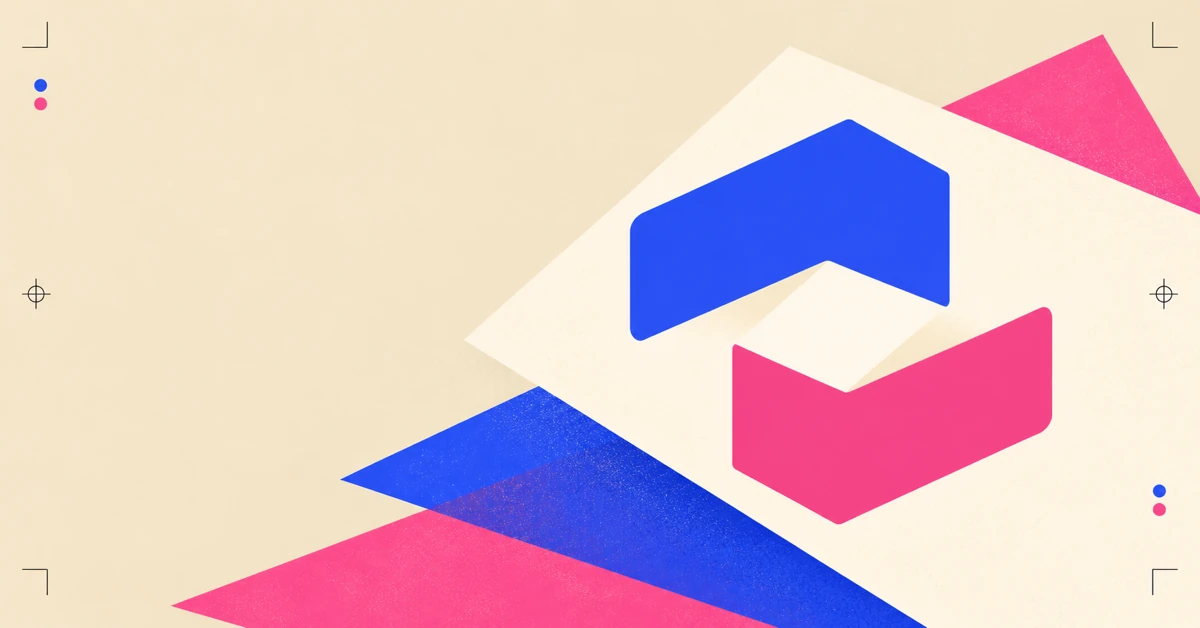
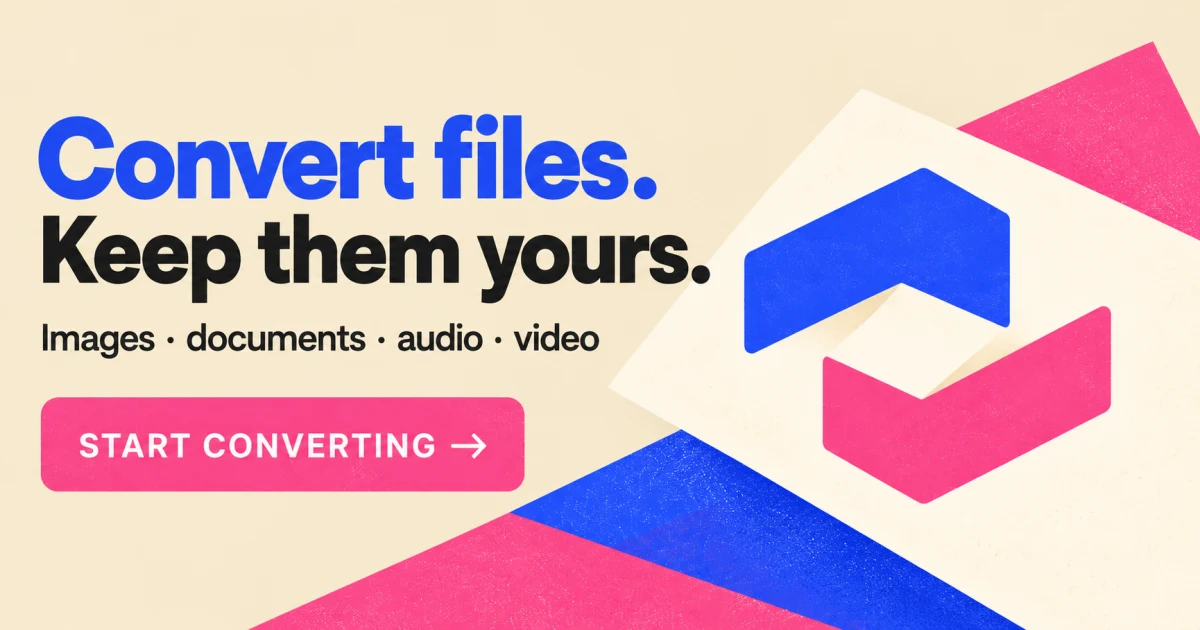
fix: improve Open Graph image and metadata

diff --git a/src/lib/components/SeoHead.svelte b/src/lib/components/SeoHead.svelte
@@ -41,10 +41,10 @@
   <meta property="og:image" content={socialImage} />
   <meta property="og:image:type" content="image/webp" />
   <meta property="og:image:width" content="1200" />
-  <meta property="og:image:height" content="628" />
+  <meta property="og:image:height" content="630" />
   <meta
     property="og:image:alt"
-    content="Folded Ribbon artwork for Henka Convert, a browser-based file conversion lab"
+    content="Henka Convert social card reading Convert files. Keep them yours, with a Start converting call to action and folded ribbon artwork"
   />
   <meta name="twitter:card" content="summary_large_image" />
   <meta name="twitter:title" content={title} />
@@ -52,7 +52,7 @@
   <meta name="twitter:image" content={socialImage} />
   <meta
     name="twitter:image:alt"
-    content="Folded Ribbon artwork for Henka Convert, a browser-based file conversion lab"
+    content="Henka Convert social card reading Convert files. Keep them yours, with a Start converting call to action and folded ribbon artwork"
   />
   {#if website}
     {@html `<script type="application/ld+json">${websiteJsonLd}</script>`}

diff --git a/src/lib/seo/site.ts b/src/lib/seo/site.ts
@@ -1,5 +1,5 @@
 export const SITE_ORIGIN = "https://henka-convert.vercel.app";
-export const SOCIAL_IMAGE_PATH = "/images/henka-convert-og.webp";
+export const SOCIAL_IMAGE_PATH = "/images/henka-convert-og.webp?v=2";
 
 export const INDEXABLE_ROUTES = [
   "/",

diff --git a/docs/seo.md b/docs/seo.md
@@ -34,7 +34,7 @@ and are copied unchanged by SvelteKit's static adapter:
 - `/favicon.webp` and `/favicon-32.webp`: browser icons.
 - `/apple-touch-icon.webp`: iOS home-screen icon.
 - `/icons/*.webp`: installable app icons referenced by `/site.webmanifest`.
-- `/images/henka-convert-og.webp`: 1200 × 628 image for Open Graph and Twitter Cards.
+- `/images/henka-convert-og.webp`: 1200 × 630 image for Open Graph and Twitter Cards. The `?v=2` URL version refreshes social-platform caches when the artwork changes.
 
 All production image assets use WebP. This reduces transfer size but can limit
 favicon discovery in Google Search and Apple Home Screen icon recognition,
